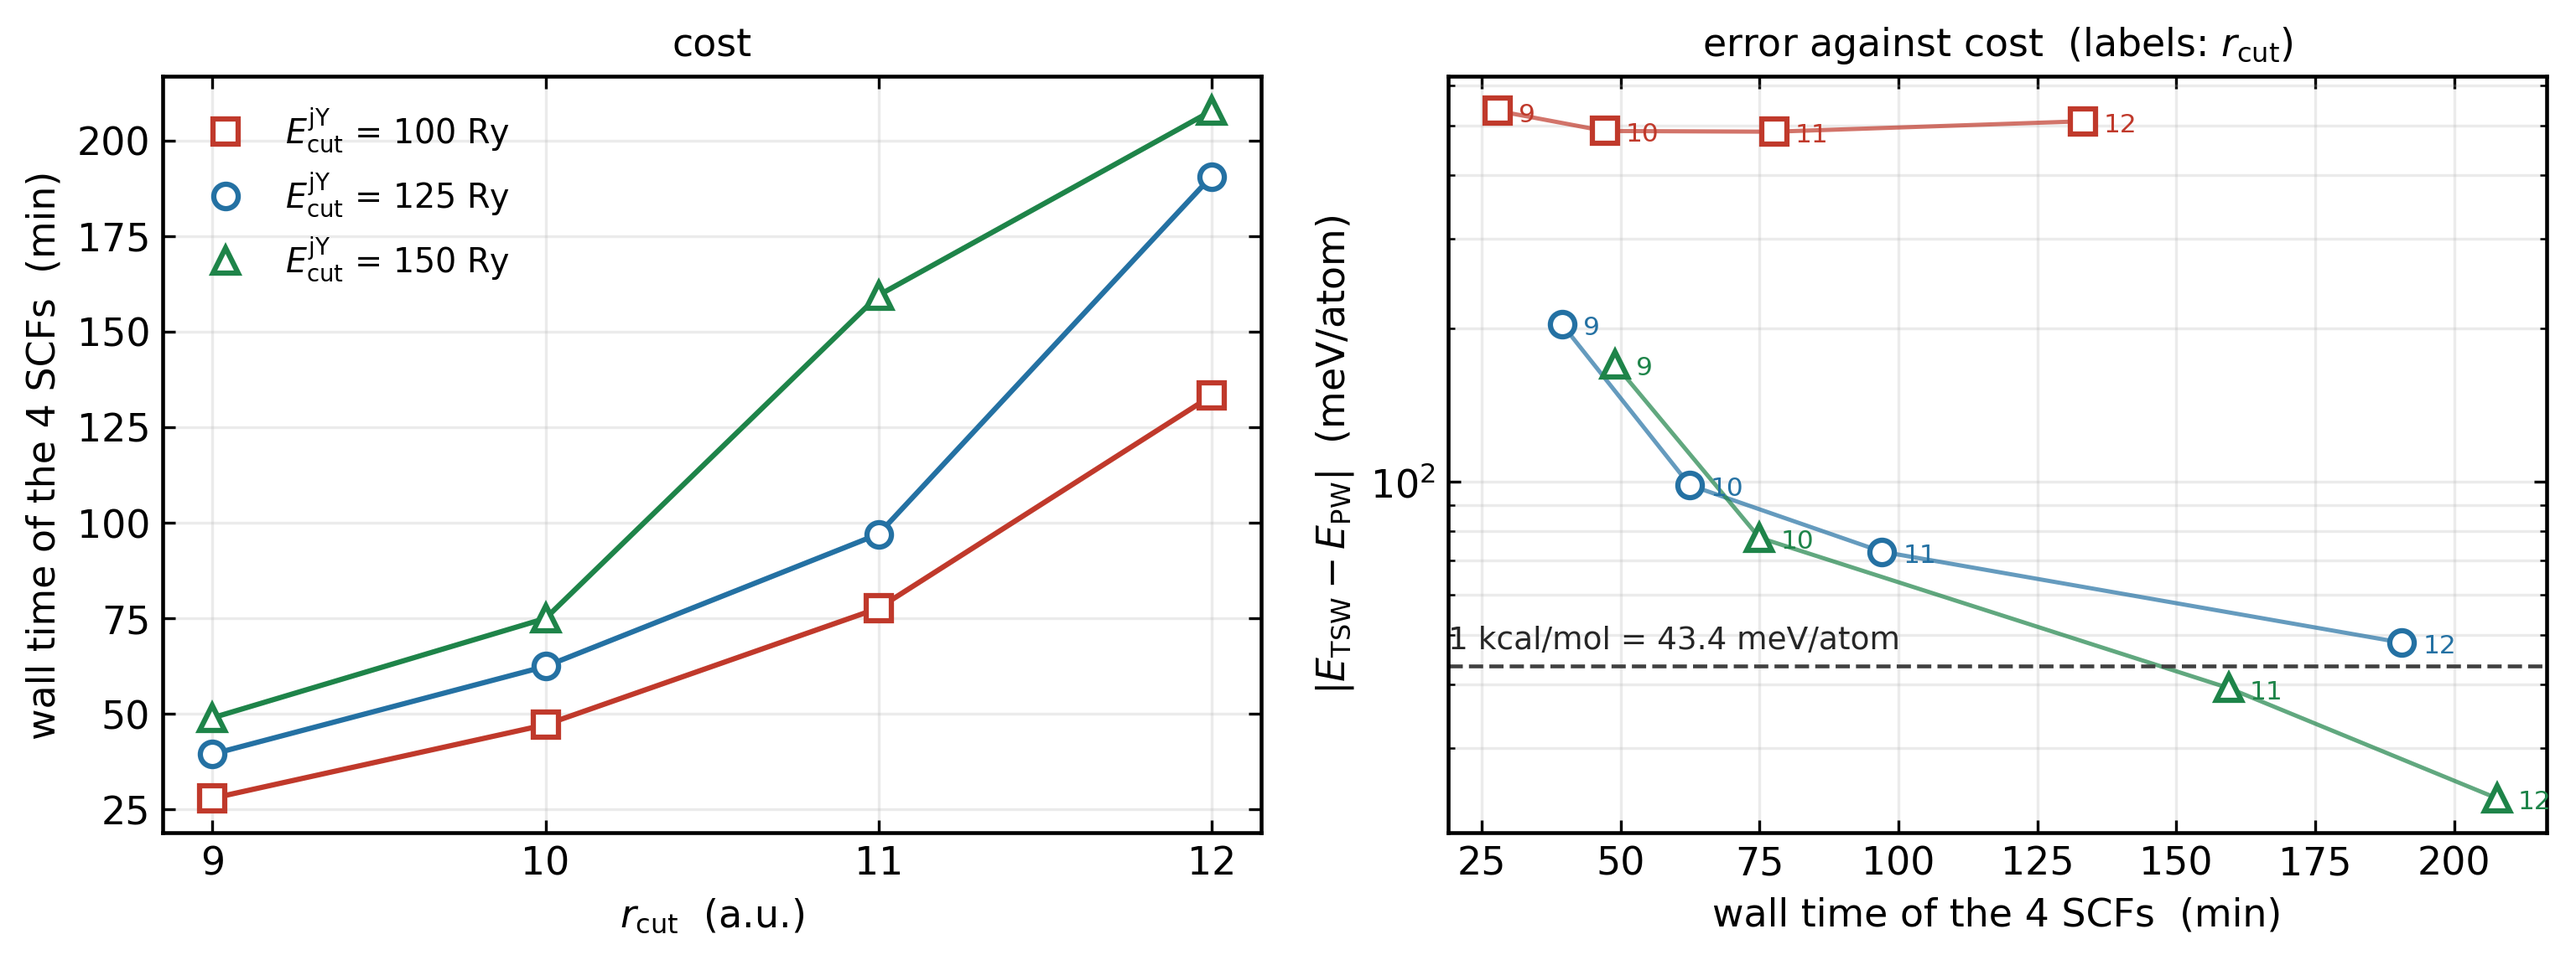
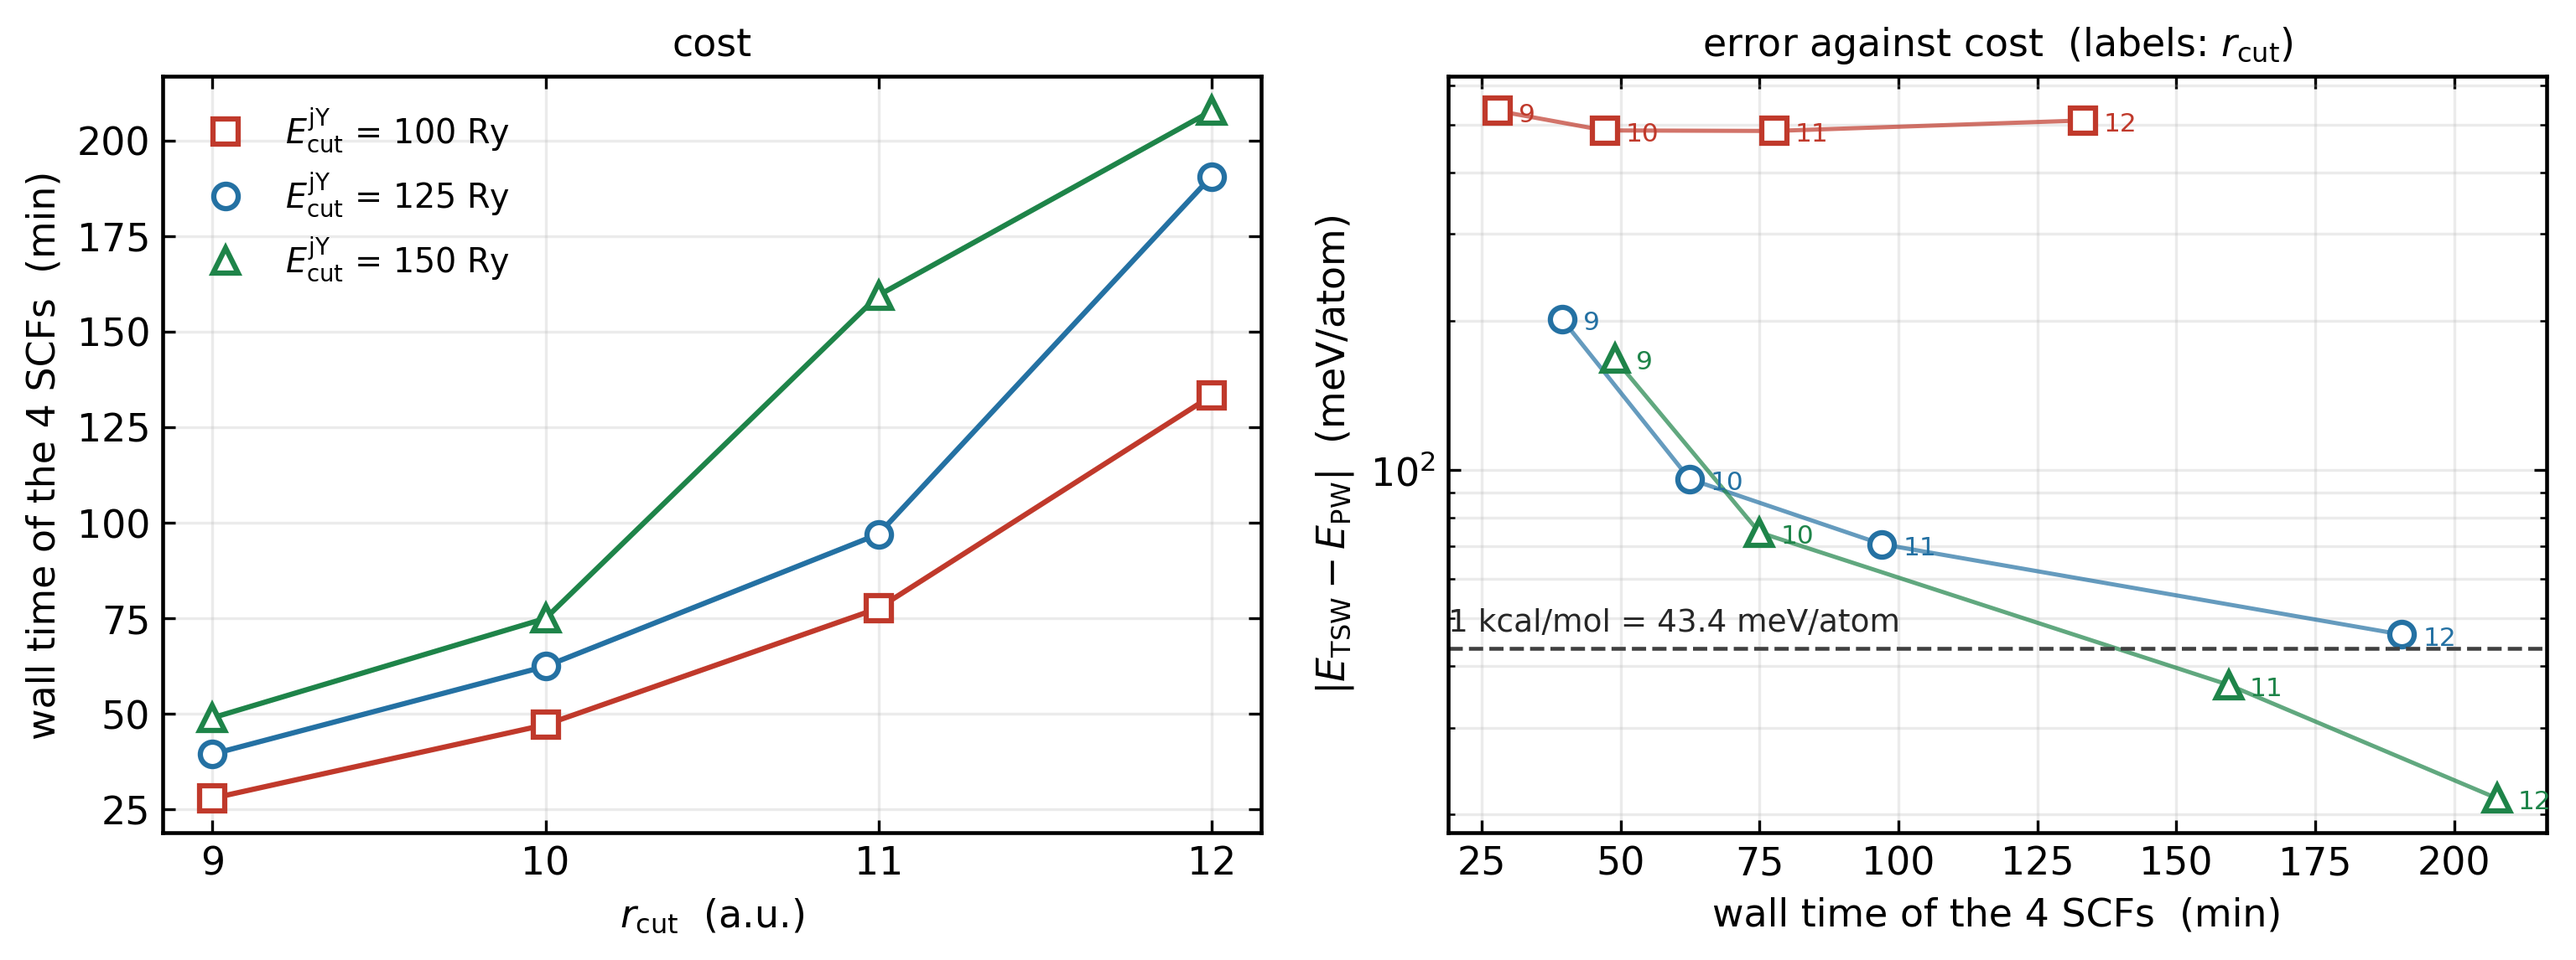
complete the PW reference set: 2.80 A and the monomer
Two PW SCFs were missing, so the mean only covered 2.10/2.40 A and the monomer was
never compared at all.

Step 1 -- the monomer reference that did exist, new_nao/ecutjy_r12_l4/PW-ref, turned
out to be unusable: its STRU has LATTICE_CONSTANT 1.8897 with LATTICE_VECTORS 20 A
identity, i.e. a 37.8 Bohr cube instead of the 35 Bohr cell the NAO runs use.  Against
it the LCAO total energy came out 244 meV LOWER than PW, which violates the variational
bound -- the tell-tale of a cell mismatch rather than a better basis.

Step 2 -- PK 580303 (U2 2.80 A) and 580305 (monomer) recomputed in the correct cell,
cloning 561552's parameters and pseudopotential.  Both finished in 9 min.  The monomer
dE is now +19.8 meV at (12, 150), positive and small as it must be.

Step 3 -- export_tsw_vs_pw.py writes the per-geometry columns, dE_mean3 (the mean over
the three dimers, used by the figure and the cost table) and dE_monomer separately,
because the monomer carries the r_cut error without cancellation.

diff --git a/export_tsw_vs_pw.py b/export_tsw_vs_pw.py
@@ -1,0 +1,131 @@
+#!/usr/bin/env python
+"""TSW (primitive NSW) basis versus plane waves, on all four reference geometries.
+
+The reference set is U2 at 2.10 / 2.40 / 2.80 A plus the monomer, in a 35 Bohr
+(18.5212 A) cubic cell -- the same cell the NAO runs use.  Both sides are SCF total
+energies with the same pseudopotential (U.pbe-n-nc.UPF, md5 shared with the NAO runs),
+the same ecutwfc (180 Ry) and gamma_only, so the only difference is the basis.
+
+    dE(geometry) = (E_TSW - E_PW) / n_atoms     meV/atom
+
+and the headline number is the mean over the **three dimers**.  The monomer is reported
+separately: it is the quantity that carries the r_cut error without cancellation
+(kappa ~ 1), which is why the dimer mean alone hides part of the story.
+
+    python export_tsw_vs_pw.py --out 2-rcut-ecutjy/data/tsw_vs_pw.csv
+"""
+from __future__ import annotations
+
+import argparse
+import csv
+import re
+import sys
+from pathlib import Path
+
+KCAL = 43.364
+
+#: all from AiiDA: 561552 (2.10), 561562 (2.40), 580303 (2.80), 580305 (monomer)
+PW = {
+    "2.10": -4951.807006023504,
+    "2.40": -4952.064018093108,
+    "2.80": -4950.826505580118,
+    "monomer": -2473.881319189626,
+}
+GEOMETRIES = ("2.10", "2.40", "2.80")
+GROUPS = ("orbgen-rcut-ecutjy", "orbgen-rcut-ecutjy-d2", "orbgen-control-r10-j150")
+
+
+def energy(calc):
+    for sub in ("OUT.aiida", "OUT.ABACUS"):
+        try:
+            text = calc.outputs.retrieved.get_object_content(f"{sub}/running_scf.log")
+        except Exception:                                        # noqa: BLE001
+            continue
+        hits = re.findall(r"!FINAL_ETOT_IS\s+(-?[0-9.]+)", text)
+        if hits:
+            return float(hits[-1])
+    return None
+
+
+def main() -> int:
+    ap = argparse.ArgumentParser(description=__doc__,
+                                 formatter_class=argparse.RawDescriptionHelpFormatter)
+    ap.add_argument("--out", default="2-rcut-ecutjy/data/tsw_vs_pw.csv")
+    args = ap.parse_args()
+
+    from aiida import load_profile
+    from aiida.orm import Group
+
+    load_profile("aiida_profile")
+    rows, seen = [], set()
+    for label in GROUPS:
+        try:
+            group = Group.collection.get(label=label)
+        except Exception:                                        # noqa: BLE001
+            continue
+        for wc in group.nodes:
+            if type(wc).__name__ != "WorkChainNode":
+                continue
+            if wc.process_state.value != "finished" or wc.exit_status != 0:
+                continue
+            s = wc.inputs.settings.get_dict()
+            key = (s["ecutjy"], s["r_cut"])
+            if key in seen:
+                continue
+            seen.add(key)
+            got = {}
+            for child in wc.called:
+                if type(child).__name__ != "CalcJobNode":
+                    continue
+                m = re.search(r"dimer_(\d)_(\d+)_", child.label or "")
+                if m:
+                    got[f"{m.group(1)}.{m.group(2)}"] = energy(child)
+                elif "monomer" in (child.label or ""):
+                    got["monomer"] = energy(child)
+            d = {}
+            for geo, epw in PW.items():
+                e = got.get(geo)
+                if e is None:
+                    continue
+                natoms = 1 if geo == "monomer" else 2
+                d[geo] = (e - epw) / natoms * 1000.0
+            if not all(g in d for g in GEOMETRIES):
+                continue
+            mean3 = sum(d[g] for g in GEOMETRIES) / len(GEOMETRIES)
+            rows.append({
+                "ecutjy_Ry": f"{s['ecutjy']:g}", "r_cut_AU": f"{s['r_cut']:g}",
+                **{f"dE_{g}_meV_per_atom": round(d[g], 2) for g in GEOMETRIES},
+                "dE_monomer_meV_per_atom": round(d["monomer"], 2) if "monomer" in d else "",
+                "dE_mean3_meV_per_atom": round(mean3, 2),
+                "dE_mean3_kcal_per_atom": round(mean3 / KCAL, 3),
+                "workchain_pk": wc.pk,
+            })
+    rows.sort(key=lambda r: (float(r["ecutjy_Ry"]), float(r["r_cut_AU"])))
+
+    out = Path(args.out)
+    out.parent.mkdir(parents=True, exist_ok=True)
+    with out.open("w", newline="") as handle:
+        handle.write("# TSW (primitive, uncontracted NSW) basis vs plane waves.\n")
+        handle.write("# Same 35 Bohr (18.5212 A) cubic cell, same pseudopotential\n")
+        handle.write("# (U.pbe-n-nc.UPF), ecutwfc 180 Ry, gamma_only.  Only the basis differs.\n")
+        handle.write("# dE = (E_TSW - E_PW) / n_atoms, meV/atom.  The headline number is\n")
+        handle.write("# dE_mean3, the mean over the three DIMERS; the monomer is separate\n")
+        handle.write("# because its r_cut error does not cancel (kappa ~ 1).\n")
+        handle.write("# PW (eV): 2.10 = -4951.807006023504, 2.40 = -4952.064018093108,\n")
+        handle.write("#          2.80 = -4950.826505580118, monomer = -2473.881319189626\n")
+        handle.write("# 1 kcal/mol = 43.364 meV/atom.\n")
+        writer = csv.DictWriter(handle, fieldnames=list(rows[0]))
+        writer.writeheader()
+        writer.writerows(rows)
+    print(f"wrote {out} ({len(rows)} rows)")
+    print(f"\n{'ecutjy':>7}{'r_cut':>7}{'2.10':>8}{'2.40':>8}{'2.80':>8}{'mean3':>9}{'monomer':>10}{'kcal':>8}")
+    for r in rows:
+        print(f"{r['ecutjy_Ry']:>7}{r['r_cut_AU']:>7}"
+              f"{r['dE_2.10_meV_per_atom']:>8}{r['dE_2.40_meV_per_atom']:>8}"
+              f"{r['dE_2.80_meV_per_atom']:>8}{r['dE_mean3_meV_per_atom']:>9}"
+              f"{r['dE_monomer_meV_per_atom']:>10}{r['dE_mean3_kcal_per_atom']:>8}")
+    return 0
+
+
+if __name__ == "__main__":
+    sys.exit(main())

diff --git a/2-rcut-ecutjy/plot_tsw_vs_pw.py b/2-rcut-ecutjy/plot_tsw_vs_pw.py
@@ -95,7 +95,7 @@ def main() -> int:
             for row in csv.DictReader(r for r in handle if not r.startswith("#")):
                 rows.append({"ecutjy": float(row["ecutjy_Ry"]),
                              "r_cut": float(row["r_cut_AU"]),
-                             "dE": float(row["dE_meV_per_atom"]),
+                             "dE": float(row["dE_mean3_meV_per_atom"]),
                              "pk": row.get("pk", "")})
         print(f"read {len(rows)} points from {args.from_csv}")
     else:
@@ -151,7 +151,7 @@ def main() -> int:
                 fontsize=9.5, color="0.15", va="bottom")
 
     ax.set_xlabel(r"$r_{\rm cut}$  (a.u.)")
-    ax.set_ylabel(r"$|E_{\rm TSW} - E_{\rm PW}|$  (meV/atom)")
+    ax.set_ylabel(r"$|E_{\rm TSW} - E_{\rm PW}|$  (meV/atom, mean of 3 dimers)")
     ax.set_xlim(8.6, 12.4)
     ax.set_ylim(0, 600)
     ax.xaxis.set_minor_locator(AutoMinorLocator(2))

diff --git a/export_cost.py b/export_cost.py
@@ -33,7 +33,7 @@ def main() -> int:
 
     timing = read(DATA / "timings.csv")
     energy = {(float(r["ecutjy_Ry"]), float(r["r_cut_AU"])):
-              (float(r["dE_meV_per_atom"]), float(r["dE_kcal_per_atom"]), r["pk"])
+              (float(r["dE_mean3_meV_per_atom"]), float(r["dE_mean3_kcal_per_atom"]), r["workchain_pk"])
               for r in read(DATA / "tsw_vs_pw.csv")}
 
     cost, monomer, iters = {}, {}, {}

diff --git a/2-rcut-ecutjy/plot_cost.py b/2-rcut-ecutjy/plot_cost.py
@@ -35,7 +35,7 @@ def main() -> int:
     args = ap.parse_args()
 
     timing = read("timings.csv")
-    energy = {(float(r["ecutjy_Ry"]), float(r["r_cut_AU"])): float(r["dE_meV_per_atom"])
+    energy = {(float(r["ecutjy_Ry"]), float(r["r_cut_AU"])): float(r["dE_mean3_meV_per_atom"])
               for r in read("tsw_vs_pw.csv")}
 
     cost = {}

diff --git a/2-rcut-ecutjy/data/README.md b/2-rcut-ecutjy/data/README.md
@@ -30,8 +30,43 @@ with 1 kcal/mol = 43.364 meV/atom.  The ladder files used to quote the atomizati
 energy difference against another LCAO set (a 50 meV bar); they were re-derived from
 the same AiiDA workchains by `export_vs_pw.py`, so `data/` no longer mixes criteria.
 
-Only the 2.10 and 2.40 A geometries have a PW run, so the 2.80 A column of the older
-tables is not reproduced here.  The r_cut 9-12 rows agree with `tsw_vs_pw.csv` to
+## The reference set is now complete
+
+The four PW references are all present and were produced with the **same** cell (35 Bohr
+= 18.5212 A cubic), the **same** pseudopotential (`U.pbe-n-nc.UPF`, md5 shared with the
+NAO runs), the same `ecutwfc 180 Ry` and the same `gamma_only` setting, so the only
+difference from the NAO side is the basis.
+
+| geometry | PW total energy (eV) | PK |
+|---|---:|---|
+| U2 2.10 A | -4951.807006023504 | 561552 |
+| U2 2.40 A | -4952.064018093108 | 561562 |
+| U2 2.80 A | -4950.826505580118 | 580303 |
+| monomer | -2473.881319189626 | 580305 |
+
+`dE_mean3` is the mean over the **three dimers** and is what the figure and
+`cost_vs_accuracy.csv` use.  `dE_monomer` is reported separately on purpose: the
+monomer carries the `r_cut` error without cancellation (kappa ~ 1), so folding it into
+the dimer mean would hide the very thing that makes `r_cut` need 11 au.
+
+| ecutjy | r_cut | 2.10 | 2.40 | 2.80 | mean3 | **monomer** |
+|---|---:|---:|---:|---:|---:|---:|
+| 125 | 12 | 51.71 | 44.79 | 42.47 | 46.32 | 47.86 |
+| 150 | 11 | 43.10 | 35.44 | 31.28 | 36.61 | 41.42 |
+| 150 | 12 | 27.30 | 20.43 | 17.02 | **21.58** | **19.81** |
+
+Note the progression in the last row: the error shrinks as the bond stretches, and the
+monomer (19.8 meV) is *smaller* than the mean over the compressed dimers.  That is the
+opposite of the earlier r_cut behaviour, which is why both numbers are kept.
+
+## A discarded PW reference
+
+`new_nao/ecutjy_r12_l4/PW-ref/` holds a monomer PW run at **-2473.617376 eV** that must
+not be used: its `STRU` has `LATTICE_CONSTANT 1.889726877` with
+`LATTICE_VECTORS = 20 0 0 / 0 20 0 / 0 0 20`, i.e. a 20 A (37.8 Bohr) cube, not the
+35 Bohr cell the NAO runs use.  Comparing against it produces a *negative* dE
+(-244 meV), which would violate the variational bound and is a symptom of the cell
+mismatch, not of a better basis.  PK 580305 replaces it.  The r_cut 9-12 rows agree with `tsw_vs_pw.csv` to
 0.1 meV (e.g. r_cut 12 at ecutjy 150: (27.3 + 20.4)/2 = 23.9 meV/atom), which is the
 check that the pooling is sound.
 
